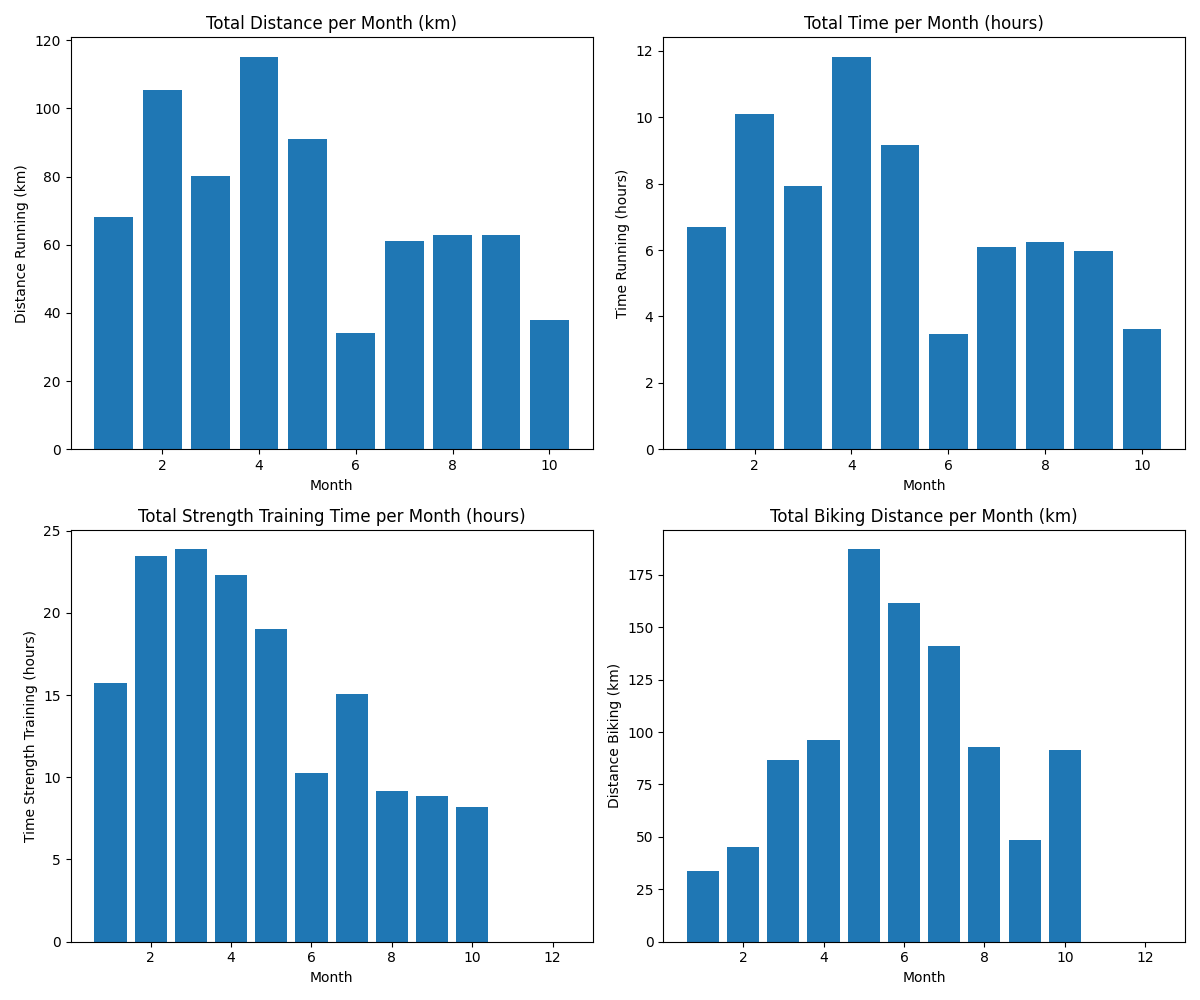
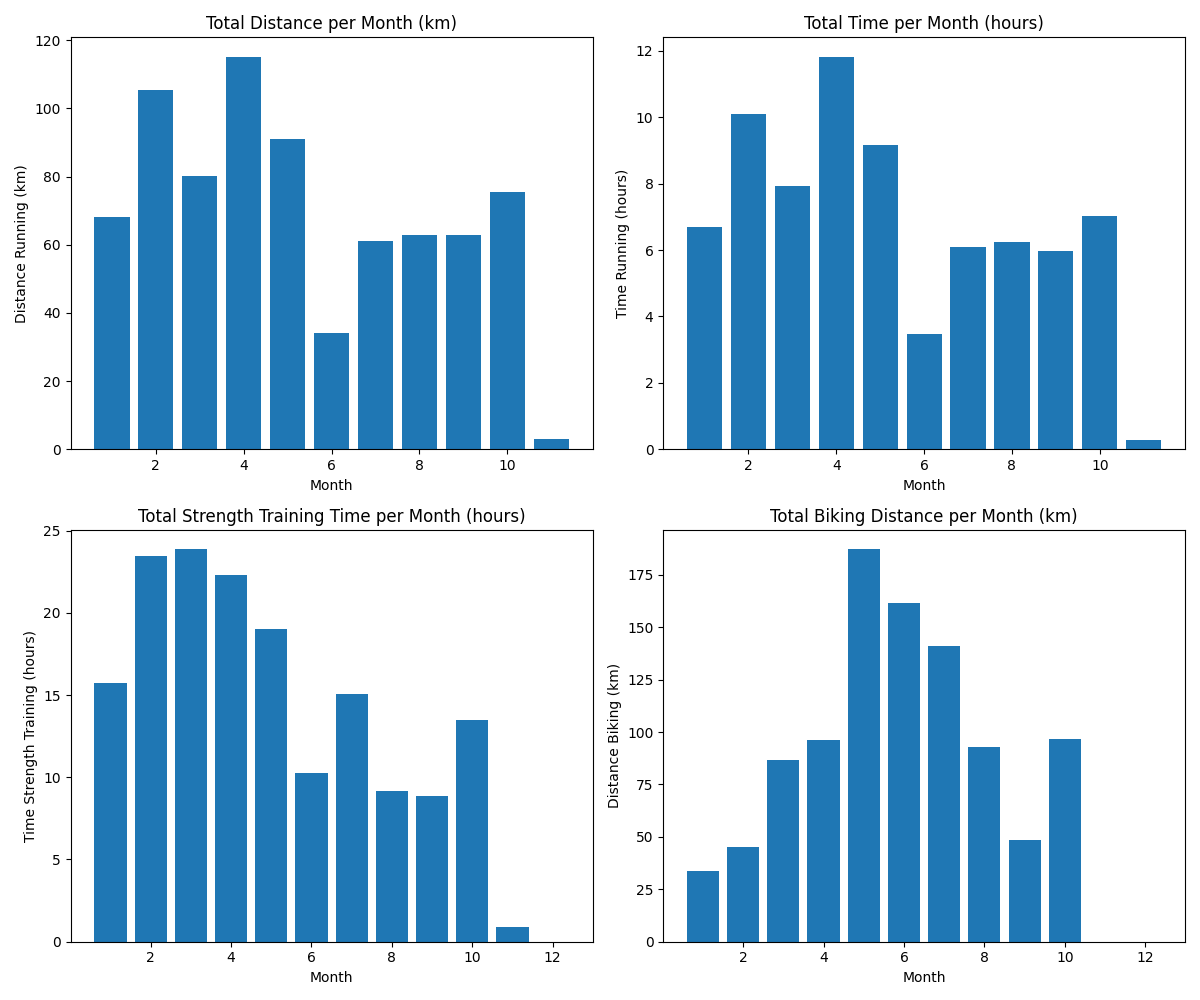
sport update 01.11

diff --git a/Sport/Sport_2026_report.md b/Sport/Sport_2026_report.md
@@ -3,28 +3,28 @@
 ## Sport Counts
 | type   |   count |
 |:-------|--------:|
-| F      |     186 |
+| F      |     195 |
 | S      |      18 |
 | L      |      13 |
 | K      |      10 |
 | B      |       7 |
 | C      |       2 |
-| Total  |     236 |
+| Total  |     245 |
 
 ## Summary
-- **Total distance run on treadmill:** 644.16 km
+- **Total distance run on treadmill:** 684.66 km
 - **Total distance run outside:** 74.41 km
-- **Total distance cycled:** 983.81 km
+- **Total distance cycled:** 988.81 km
 - **Total distance swimming:** 45.75 km
 - **Total distance skating:** 103.51 km
-- **Total number of sets (strength training):** 9,348
-- **Average number of sets (strength training):** 49.72
+- **Total number of sets (strength training):** 9,720
+- **Average number of sets (strength training):** 49.34
 - **Total number of climbs:** 11
 - **Average number of climbs:** 5.50
 
 ## Average Speeds
-- **Treadmill running:** 10.07 km/h
+- **Treadmill running:** 10.12 km/h
 - **Outside running:** 10.49 km/h
-- **Cycling:** 21.08 km/h
+- **Cycling:** 21.10 km/h
 - **Swimming:** 2.61 km/h
 - **Inline skating:** 8.94 km/h
